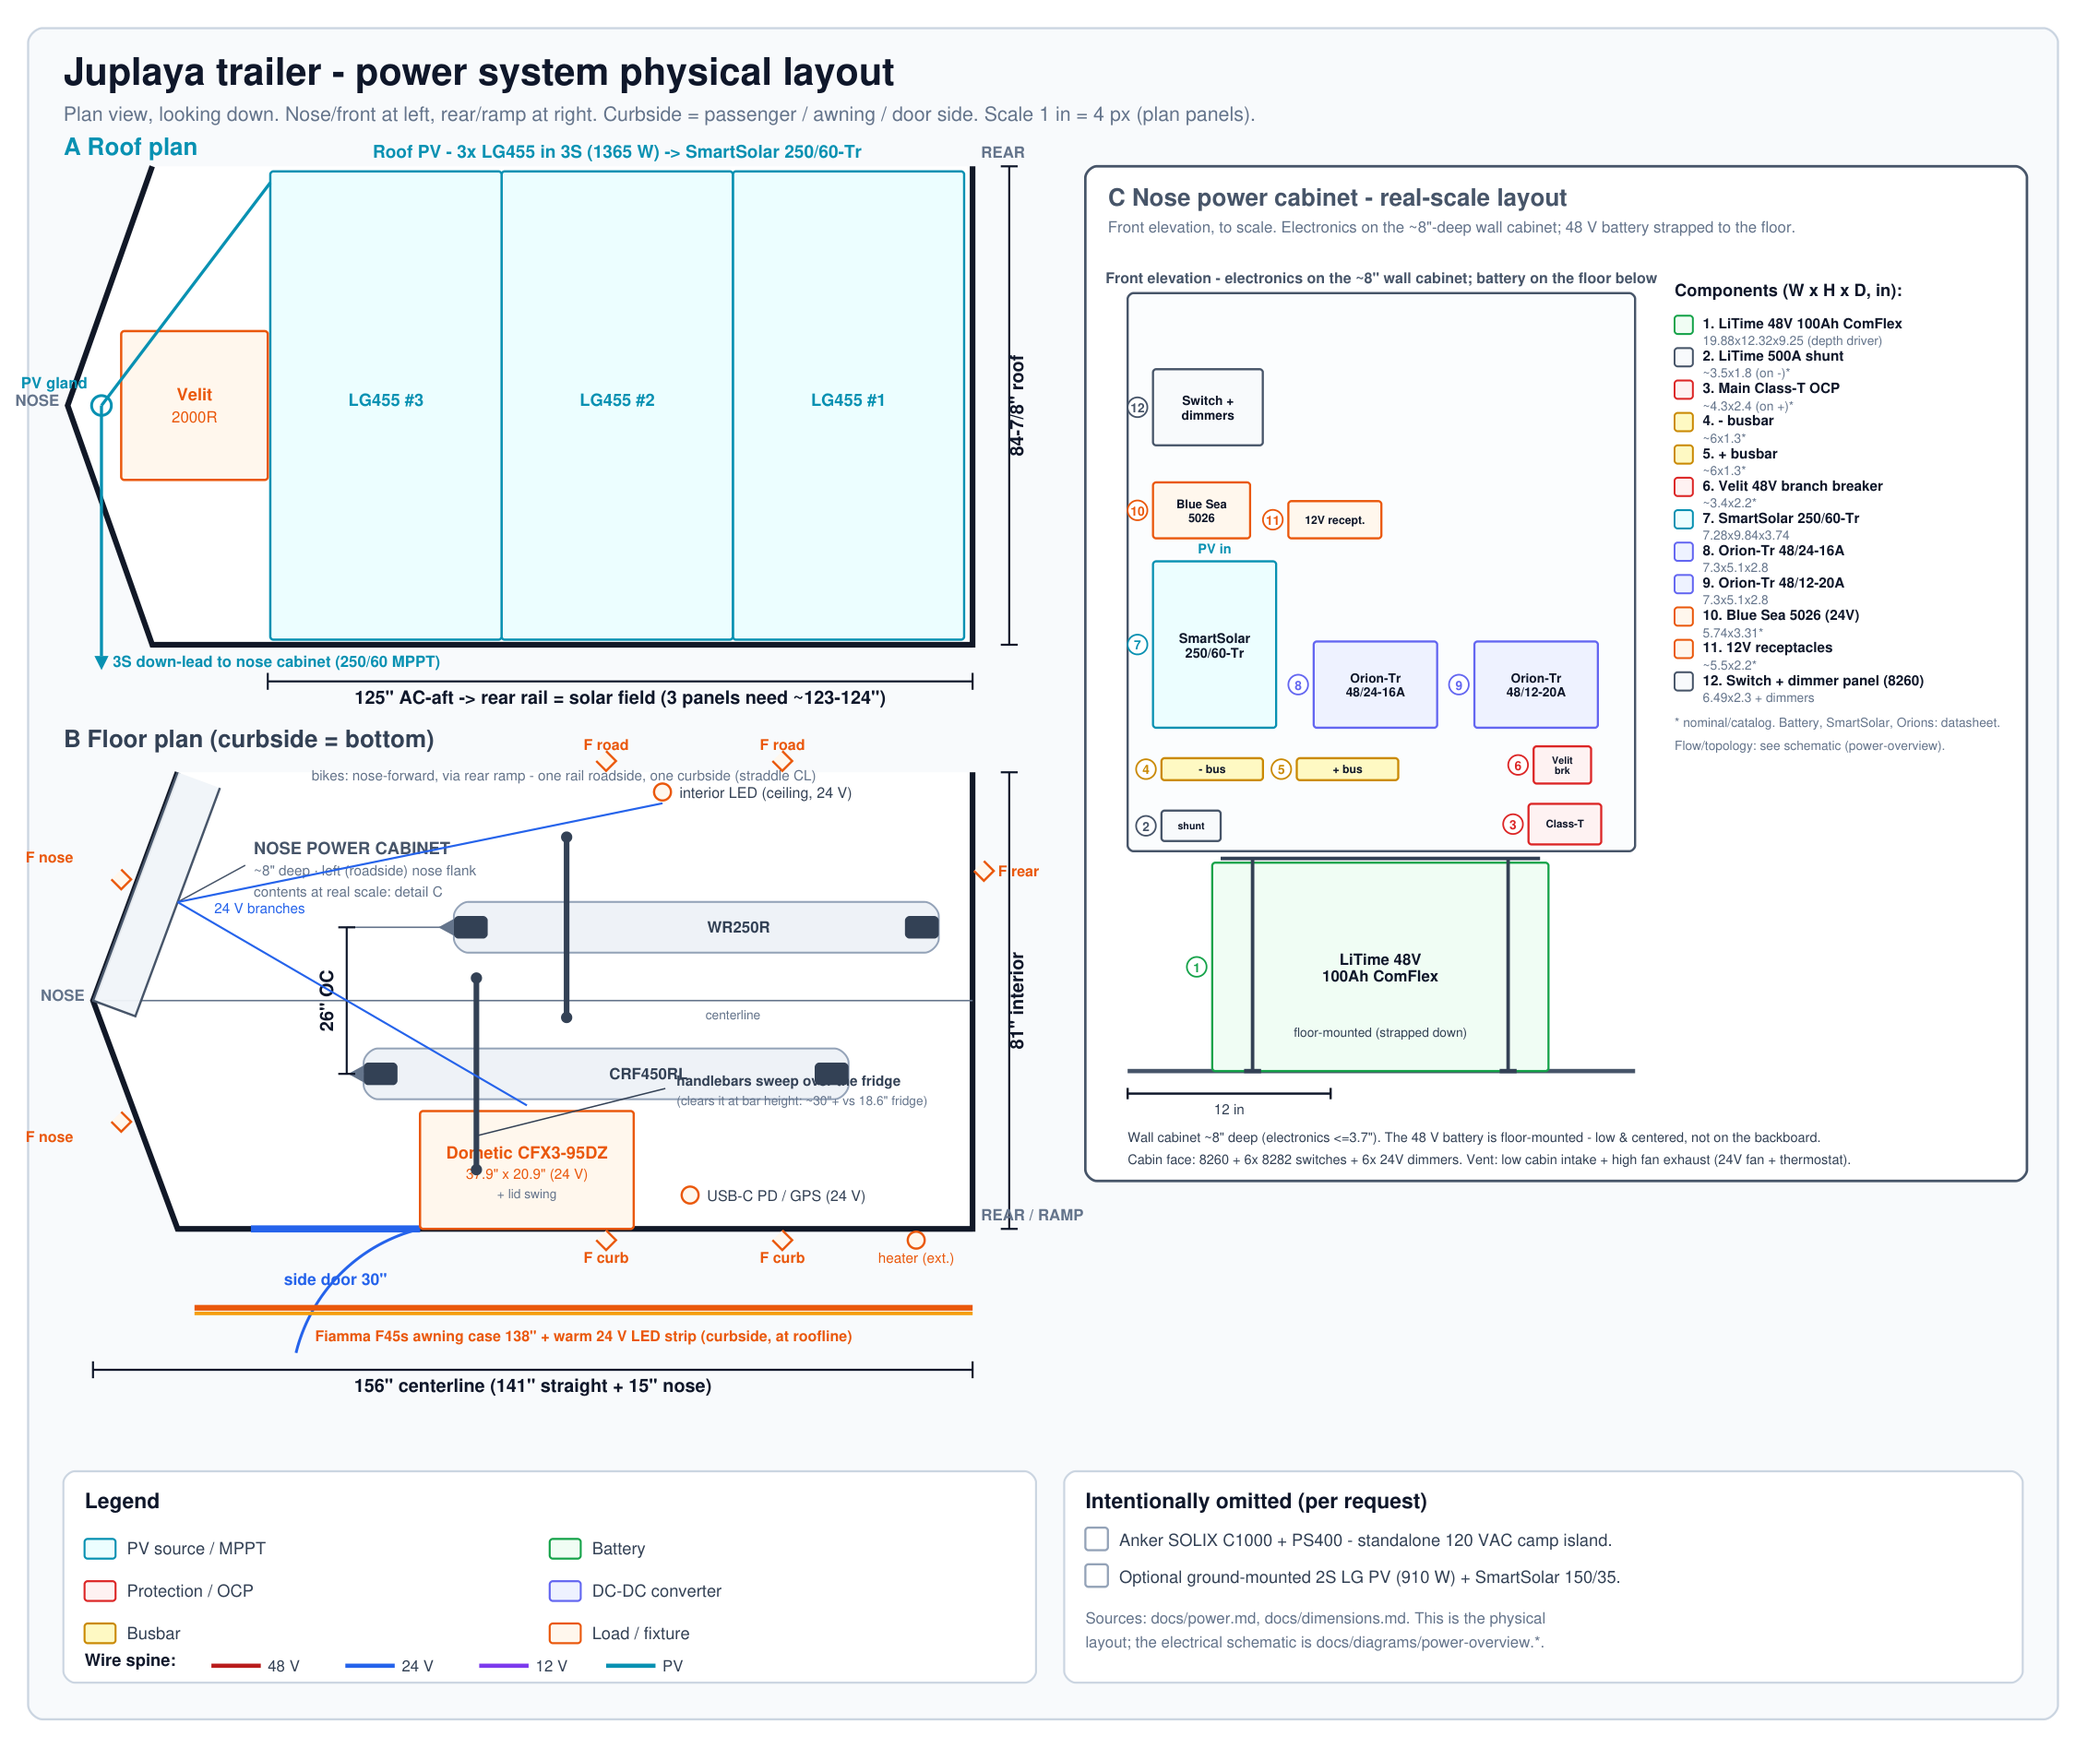
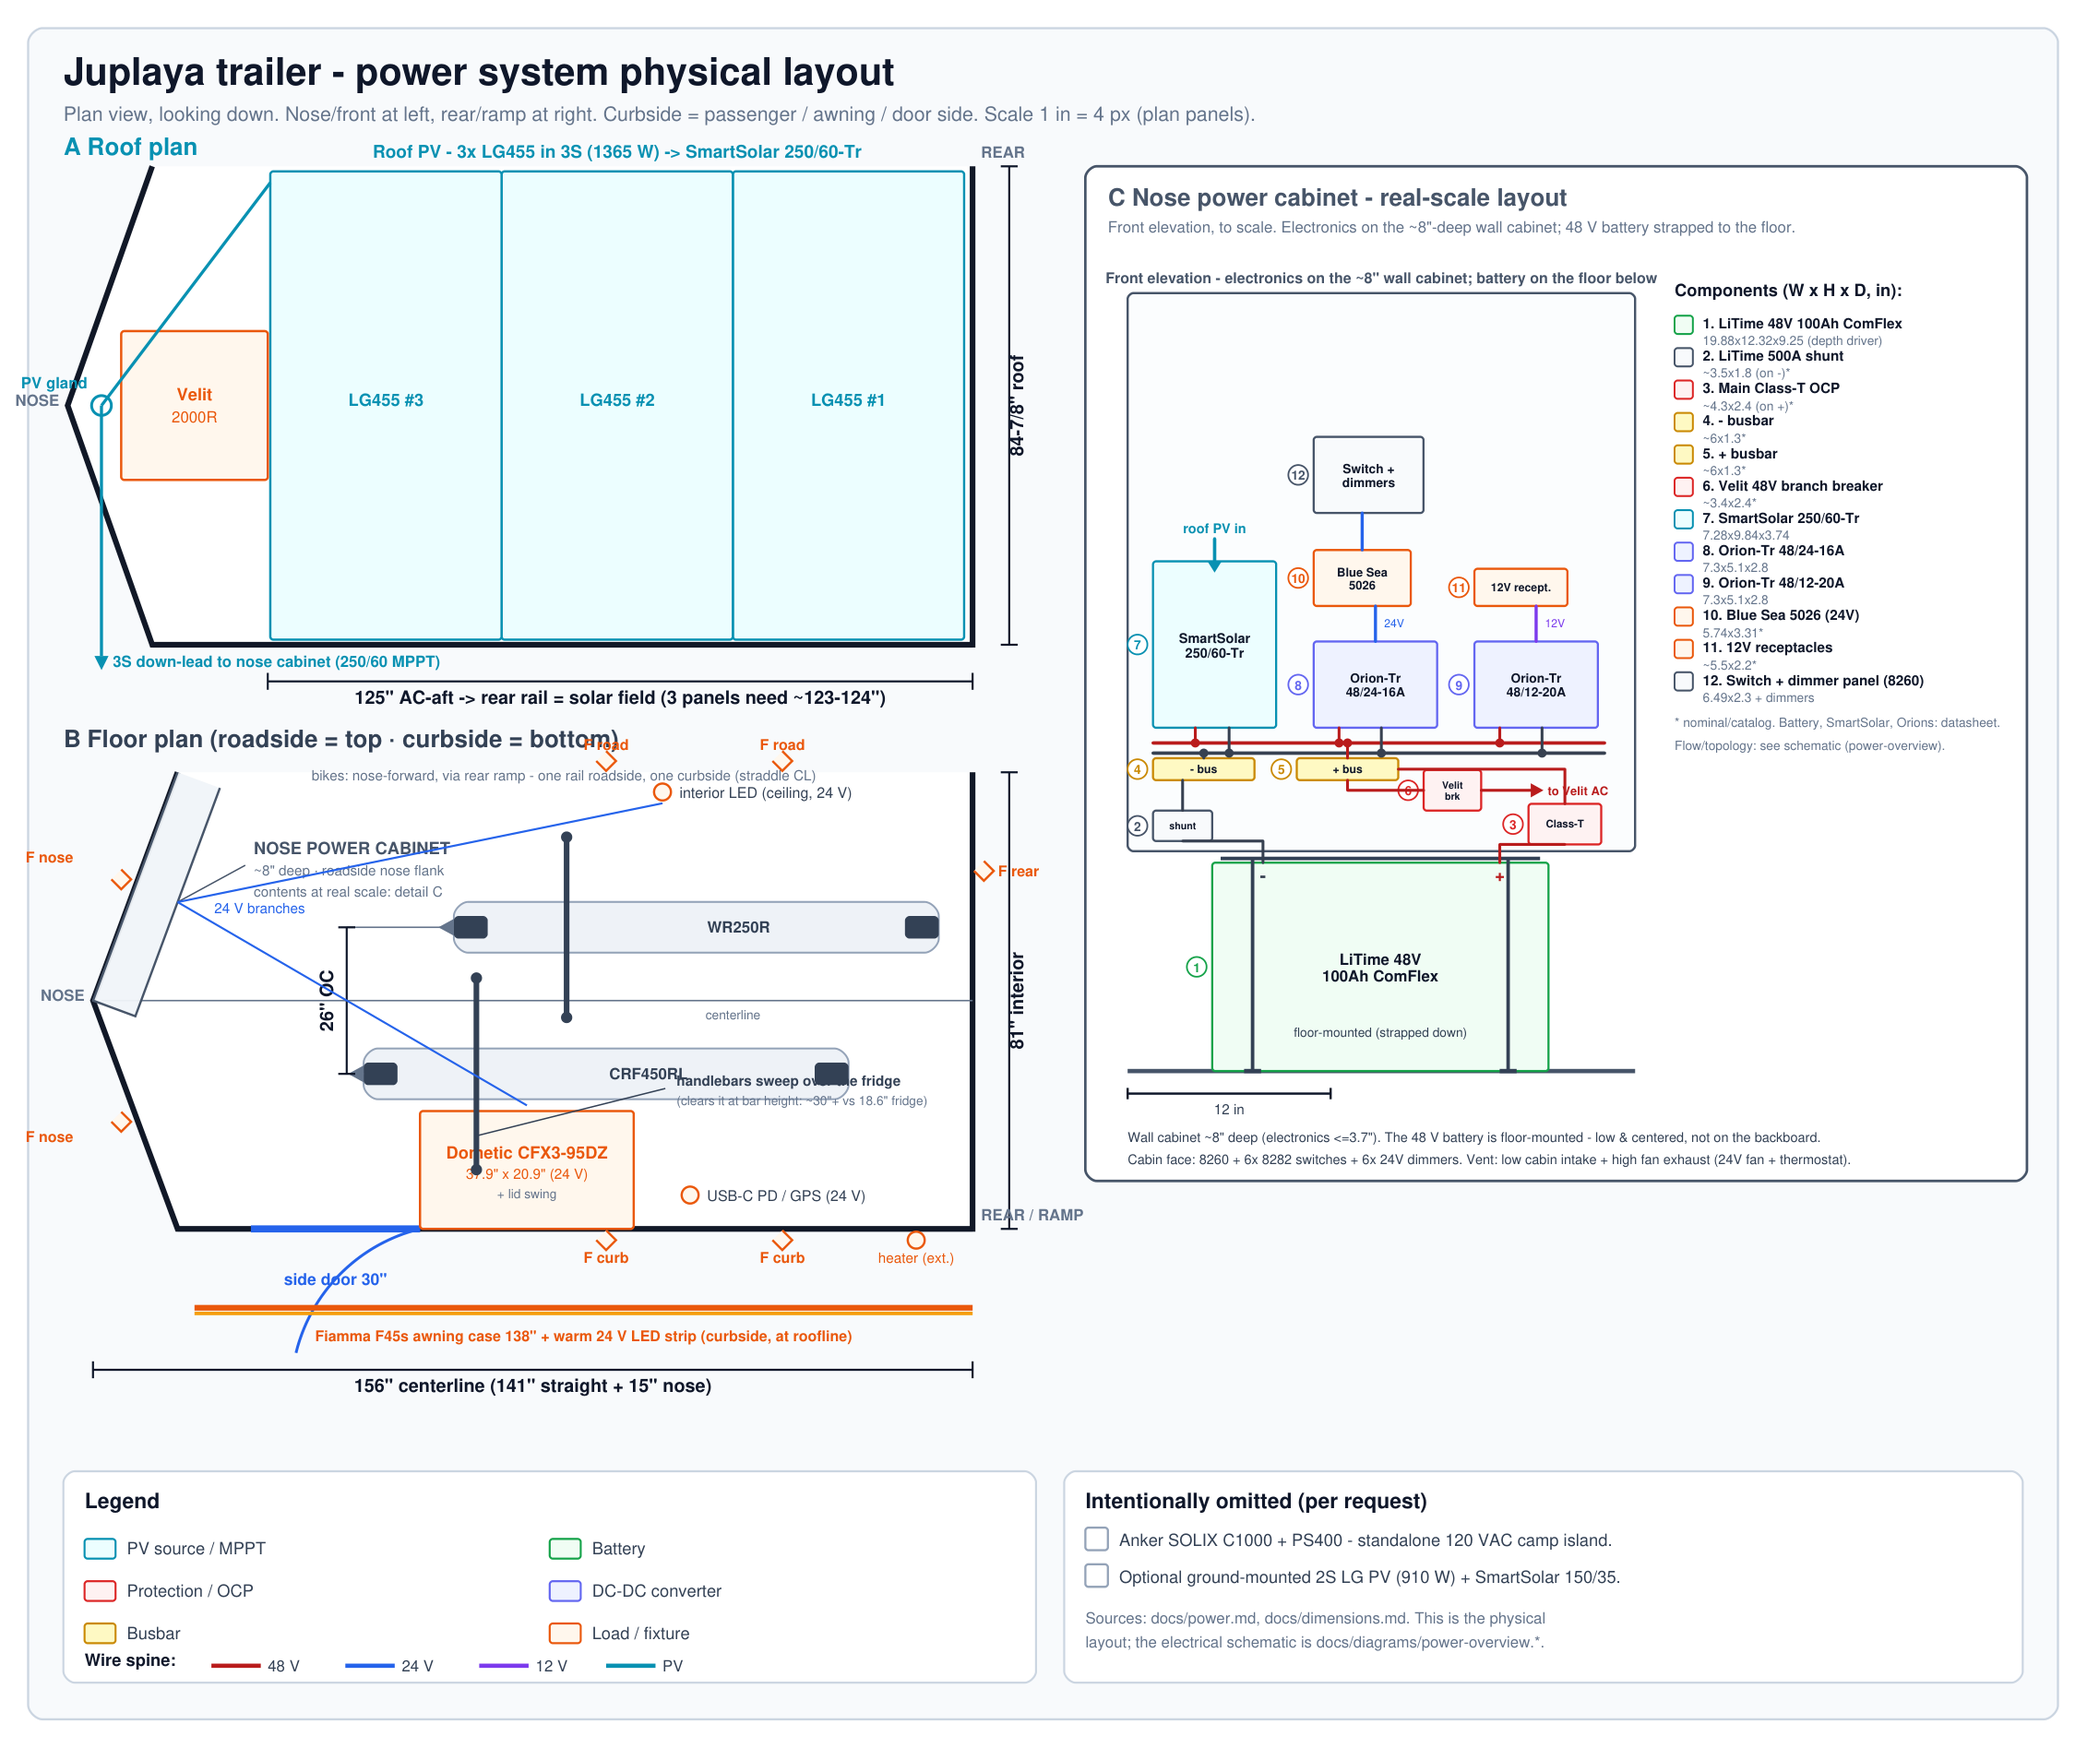
Add interconnecting wiring to the cabinet elevation; side labels
Panel C now shows the conductors, not just placed boxes. Re-laid the
components so each load sits directly above its converter, then drew a
wiring layer: 48 V +/- bus rails (with junction dots) fed from the busbars,
the battery -> shunt(-)/Class-T(+) -> busbar protection chain, converter
inputs tapped off the rails, converter outputs running up to the loads
(24 V to the 5026 -> switch panel, 12 V to the receptacles), roof PV into
the MPPT, and the Velit 48 V branch out to the roof AC. Colors: red +48V,
dark -48V, blue 24V, purple 12V, cyan PV.

Also made the side labels explicit per owner: floor plan titled
"roadside = top / curbside = bottom"; nose cabinet labeled "roadside nose
flank"; propagated the settled cabinet facts (roadside, ~8" deep,
electronics on the backboard, battery floor-mounted below) into power.md.

Tooling note: the repo's wired JSON format (juplaya-power-diagram.json)
has no local renderer and no electrical-CAD lib is installed, so the
wiring is drawn directly in the generated SVG.

diff --git a/scripts/generate_power_physical_layout_svg.py b/scripts/generate_power_physical_layout_svg.py
@@ -200,7 +200,7 @@ fmid = (ft + fb) / 2
 f_taper = REAR_X - 141 * S               # straight-wall length 141
 f_tip = f_taper - 60
 
-text(45, 530, "B  Floor plan  (curbside = bottom)", size=17, weight=700, fill=C["slate"])
+text(45, 530, "B  Floor plan  (roadside = top · curbside = bottom)", size=17, weight=700, fill=C["slate"])
 
 # footprint
 poly([(REAR_X, ft), (REAR_X, fb), (f_taper, fb), (f_tip, fmid), (f_taper, ft)],
@@ -210,7 +210,7 @@ poly([(REAR_X, ft), (REAR_X, fb), (f_taper, fb), (f_tip, fmid), (f_taper, ft)],
 line(f_tip + 6, fmid, REAR_X, fmid, stroke=C["muted"], sw=1, dash="9 7")
 text(520, fmid + 13, "centerline", size=9, anchor="middle", fill=C["muted"])
 
-# --- nose power cabinet: ~8" deep, localized to the LEFT (roadside) nose flank ---
+# --- nose power cabinet: ~8" deep, on the ROADSIDE nose flank ---
 # Upper flank A(taper-start, top) -> B(nose tip); offset inward into the cabin by 8".
 fdx, fdy = f_tip - f_taper, fmid - ft
 flen = (fdx * fdx + fdy * fdy) ** 0.5
@@ -222,7 +222,7 @@ B_in = (B_fl[0] + nx * cdep, B_fl[1] + ny * cdep)
 poly([A_fl, B_fl, B_in, A_in], fill=C["cab"], stroke=C["cab_s"], sw=1.6, dash="5 3", op=0.95)
 cab_out = ((A_in[0] + B_in[0]) / 2, (A_in[1] + B_in[1]) / 2)   # 24 V feed origin
 text(A_in[0] + 24, fmid - 104, "NOSE POWER CABINET", size=12, weight=700, fill=C["cab_s"])
-text(A_in[0] + 24, fmid - 89, "~8\" deep · left (roadside) nose flank", size=10, fill=C["muted"])
+text(A_in[0] + 24, fmid - 89, "~8\" deep · roadside nose flank", size=10, fill=C["muted"])
 text(A_in[0] + 24, fmid - 74, "contents at real scale: detail C", size=10, fill=C["muted"])
 line(A_in[0] + 18, fmid - 96, cab_out[0], cab_out[1], stroke=C["cab_s"], sw=1, dash="3 3")
 
@@ -346,17 +346,17 @@ text(EX0 + CABW * sc_e / 2, EYb - CABH * sc_e - 7,
 # components: (n, ex, ey, ew, eh, fill, stroke, name, dims, in-box label, label size)
 comps = [
     (1,  5.0,  0.0, 19.88, 12.32, C["bat"],   C["bat_s"],  "LiTime 48V 100Ah ComFlex", "19.88x12.32x9.25  (depth driver)", "LiTime 48V|100Ah ComFlex", 11),
-    (2,  2.0, 13.6, 3.5,   1.8,   C["sheet"], C["cab_s"],  "LiTime 500A shunt",         "~3.5x1.8  (on -)*",  "shunt", 7),
+    (2,  1.5, 13.6, 3.5,   1.8,   C["sheet"], C["cab_s"],  "LiTime 500A shunt",         "~3.5x1.8  (on -)*",  "shunt", 7),
     (3, 23.7, 13.4, 4.3,   2.4,   C["prot"],  C["prot_s"], "Main Class-T OCP",          "~4.3x2.4  (on +)*",  "Class-T", 7.5),
-    (4,  2.0, 17.2, 6.0,   1.3,   C["bus"],   C["bus_s"],  "- busbar",                  "~6x1.3*",  "- bus", 8),
+    (4,  1.5, 17.2, 6.0,   1.3,   C["bus"],   C["bus_s"],  "- busbar",                  "~6x1.3*",  "- bus", 8),
     (5, 10.0, 17.2, 6.0,   1.3,   C["bus"],   C["bus_s"],  "+ busbar",                  "~6x1.3*",  "+ bus", 8),
-    (6, 24.0, 17.0, 3.4,   2.2,   C["prot"],  C["prot_s"], "Velit 48V branch breaker",  "~3.4x2.2*",  "Velit|brk", 7),
+    (6, 17.5, 15.4, 3.4,   2.4,   C["prot"],  C["prot_s"], "Velit 48V branch breaker",  "~3.4x2.4*",  "Velit|brk", 7),
     (7,  1.5, 20.3, 7.28,  9.84,  C["pv"],    C["pv_s"],   "SmartSolar 250/60-Tr",      "7.28x9.84x3.74",  "SmartSolar|250/60-Tr", 9.5),
     (8, 11.0, 20.3, 7.3,   5.1,   C["conv"],  C["conv_s"], "Orion-Tr 48/24-16A",        "7.3x5.1x2.8",  "Orion-Tr|48/24-16A", 9),
     (9, 20.5, 20.3, 7.3,   5.1,   C["conv"],  C["conv_s"], "Orion-Tr 48/12-20A",        "7.3x5.1x2.8",  "Orion-Tr|48/12-20A", 9),
-    (10, 1.5, 31.5, 5.74,  3.31,  C["load"],  C["load_s"], "Blue Sea 5026 (24V)",       "5.74x3.31*",  "Blue Sea|5026", 8.5),
-    (11, 9.5, 31.5, 5.5,   2.2,   C["load"],  C["load_s"], "12V receptacles",           "~5.5x2.2*",  "12V recept.", 8),
-    (12, 1.5, 37.0, 6.49,  4.5,   C["sheet"], C["cab_s"],  "Switch + dimmer panel (8260)", "6.49x2.3 + dimmers",  "Switch +|dimmers", 9),
+    (10,11.0, 27.5, 5.74,  3.31,  C["load"],  C["load_s"], "Blue Sea 5026 (24V)",       "5.74x3.31*",  "Blue Sea|5026", 8.5),
+    (11,20.5, 27.5, 5.5,   2.2,   C["load"],  C["load_s"], "12V receptacles",           "~5.5x2.2*",  "12V recept.", 8),
+    (12,11.0, 33.0, 6.49,  4.5,   C["sheet"], C["cab_s"],  "Switch + dimmer panel (8260)", "6.49x2.3 + dimmers",  "Switch +|dimmers", 9),
 ]
 for n, ex, ey, ew, eh, fill, stroke, name, dims, lab, lsize in comps:
     x = EX0 + ex * sc_e
@@ -383,9 +383,56 @@ for sf in (0.12, 0.88):
 text(b_x + b_w / 2, EYb - 24, "floor-mounted (strapped down)",
      size=9, anchor="middle", fill=C["slate"])
 
-# orientation label (where roof PV enters)
-text(EX0 + (1.5 + 7.28 / 2) * sc_e, EYb - 30.6 * sc_e, "PV in",
-     size=9.5, weight=700, anchor="middle", fill=C["pv_s"])
+# ---- interconnecting wiring (red +48V, dark -48V, blue 24V, purple 12V, cyan PV) ----
+NEG = "#374151"
+def wire(pts, color, w=2.0):
+    d = "M " + " L ".join(f"{px:.1f} {py:.1f}" for px, py in pts)
+    e(f'<path d="{d}" fill="none" stroke="{color}" stroke-width="{w}" '
+      f'stroke-linejoin="round" stroke-linecap="round"/>')
+def jdot(x, y, color):
+    e(f'<circle cx="{x:.1f}" cy="{y:.1f}" r="3.2" fill="{color}"/>')
+
+yCB, yRP, yRN = 516.4, 527.2, 534.4        # converter bottoms, + rail, - rail
+yBT, yBM, yBB = 538.0, 545.8, 553.6        # busbar top / mid / bottom
+
+# battery terminal marks
+text(1064, 625, "+", size=12, weight=700, anchor="middle", fill=C["w48"])
+text(896, 626, "-", size=13, weight=700, anchor="middle", fill=NEG)
+
+# protection: battery -> shunt(-) / Class-T(+) -> busbars
+wire([(896, 612.16), (896, 596.8), (839, 596.8)], NEG)
+wire([(839, 575.2), (839, yBB)], NEG)
+wire([(1064, 612.16), (1064, 599.2), (1110.2, 599.2)], C["w48"])
+wire([(1110.2, 570.4), (1110.2, yBM), (992, yBM)], C["w48"])
+
+# 48 V rails + busbar feeds
+wire([(818, yRP), (1138.4, yRP)], C["w48"], 2.4)
+wire([(818, yRN), (1138.4, yRN)], NEG, 2.4)
+wire([(956, yBT), (956, yRP)], C["w48"]); jdot(956, yRP, C["w48"])
+wire([(854, yBT), (854, yRN)], NEG); jdot(854, yRN, NEG)
+
+# converter input stubs from the rails
+for xp, xn in [(848, 872), (950, 980), (1064, 1094)]:
+    wire([(xp, yRP), (xp, yCB)], C["w48"]); jdot(xp, yRP, C["w48"])
+    wire([(xn, yRN), (xn, yCB)], NEG); jdot(xn, yRN, NEG)
+
+# converter outputs -> loads (straight up; loads sit above their converter)
+wire([(975.8, 455.2), (975.8, 430)], C["w24"], 2.2)     # Orion 48/24 -> 5026
+wire([(1089.8, 455.2), (1089.8, 430)], C["w12"], 2.2)   # Orion 48/12 -> receptacles
+wire([(966.44, 390.28), (966.44, 364)], C["w24"], 2.2)  # 5026 -> switch panel
+text(982, 445, "24V", size=8, fill=C["w24"])
+text(1096, 445, "12V", size=8, fill=C["w12"])
+
+# roof PV in -> MPPT
+wire([(861.68, 382.32), (861.68, 398.32)], C["pv_s"], 2.4)
+poly([(856.68, 398.32), (866.68, 398.32), (861.68, 406.32)], fill=C["pv_s"], stroke="none")
+text(861.68, 378, "roof PV in", size=9.5, weight=700, anchor="middle", fill=C["pv_s"])
+
+# Velit 48 V branch: + busbar -> breaker -> roof AC
+wire([(956, yBB), (956, 560.8), (1010, 560.8)], C["w48"], 2.0)
+wire([(1050.8, 560.8), (1086, 560.8)], C["w48"], 2.0)
+poly([(1086, 555.8), (1086, 565.8), (1095, 560.8)], fill=C["w48"], stroke="none")
+text(1098, 564, "to Velit AC", size=8.5, weight=700, anchor="start", fill=C["w48"])
 
 # scale bar (12 in)
 sb_y = EYb + 16

diff --git a/docs/power.md b/docs/power.md
@@ -10,7 +10,7 @@ Related decisions: [D002](DECISION_LOG.md), [D006](DECISION_LOG.md), [D008](DECI
 
 ![Solar string routing](diagrams/power-solar-strings.svg)
 
-**Physical layout** (where the gear sits, vs the schematic above) — three scale panels: roof (Velit + roof 3S string and PV gland drop), floor (the ~8"-deep left-flank nose cabinet, the two bikes at 26" OC with handlebars sweeping the curbside fridge bay, exterior flood/awning positions, 24 V load locations), and a **real-scale front elevation of the nose cabinet** with every component drawn to its true footprint (battery, MPPT, both Orions, busbars, shunt, Class-T, 5026, receptacles, switch/dimmer panel) plus a dimensioned parts list. The standalone Anker SOLIX C1000 + PS400 AC island and the optional ground-mounted 2S LG PV (with its SmartSolar 150/35) are intentionally left out. Regenerate with `python3 scripts/generate_power_physical_layout_svg.py`.
+**Physical layout** (where the gear sits, vs the schematic above) — three scale panels: roof (Velit + roof 3S string and PV gland drop), floor (the ~8"-deep roadside-flank nose cabinet, the two bikes at 26" OC straddling the centerline with handlebars sweeping the curbside fridge bay, exterior flood/awning positions, 24 V load locations), and a **real-scale front elevation of the nose cabinet** with every component drawn to its true footprint (battery, MPPT, both Orions, busbars, shunt, Class-T, 5026, receptacles, switch/dimmer panel) plus a dimensioned parts list. The standalone Anker SOLIX C1000 + PS400 AC island and the optional ground-mounted 2S LG PV (with its SmartSolar 150/35) are intentionally left out. Regenerate with `python3 scripts/generate_power_physical_layout_svg.py`.
 
 ![Power system physical layout](diagrams/power-physical-layout.svg)
 
@@ -106,7 +106,7 @@ Voltage checks:
 | Orion-Tr 48/24-16A | house converter | isolated, remote on/off to cabin toggle |
 | Orion-Tr IP43 48/12-20A | auxiliary 12 V converter | isolated, 240 W / 20 A, remote off; feeds only cabinet receptacles |
 
-The battery, shunt, MPPTs, Orion converters, distribution, and protection live in the nose cabinet. Ventilate the cabinet; the SmartSolar and Orions add waste heat, and the fridge bay must stay away from this plume.
+The shunt, MPPTs, Orion converters, distribution, and protection live in a ~8"-deep cabinet on the **roadside nose section** (electronics on the backboard); the LiTime battery is **floor-mounted** (strapped down, low and centered) just below it. Ventilate the cabinet; the SmartSolar and Orions add waste heat, and the curbside fridge bay must stay away from this plume.
 
 ## Power Cabinet Ventilation
 
